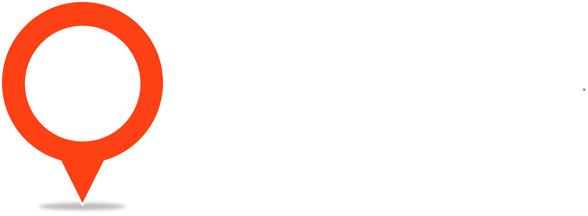
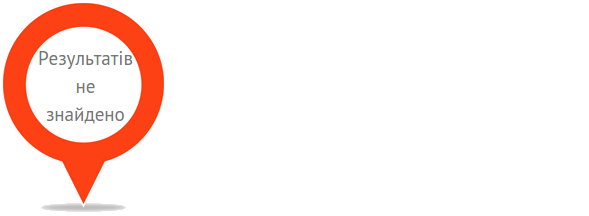
Task #39: Change css fot not found page

diff --git a/sites/all/themes/idevels/styles/styles.css b/sites/all/themes/idevels/styles/styles.css
@@ -4195,10 +4195,9 @@ div#not_found_page > div:first-child {
   float: left;
   width: 795px;
 }
-div#not_found_page > div + div {
+div#not_found_page > div+div {
   float: left;
   width: 380px;
-  /*padding-left: 40px;*/
 }
 div#not_found {
   position: relative;
@@ -4209,19 +4208,6 @@ div#not_found {
   font-family: 'Pt Sans',Arial,Verdana,sans-serif;
   color: #777;
 }
-div#not_found #not_found_title {
-  position: absolute;
-  top: 50px
-  left: 50px;
-}
-div#not_found #not_found_title {
-  position: absolute;
-  top: 43px;
-  left: 34px;
-  width: 100px;
-  font-size: 19px;
-  text-align: center;
-}
 div#not_found > div {
   position: absolute;
   top: 40px;
@@ -4230,7 +4216,4 @@ div#not_found > div {
 }
 div#not_found #not_found_text {
   margin-bottom: 0;
-} 
-div#not_found #not_found_ps {
-  font-style: italic;
-} 
+}
